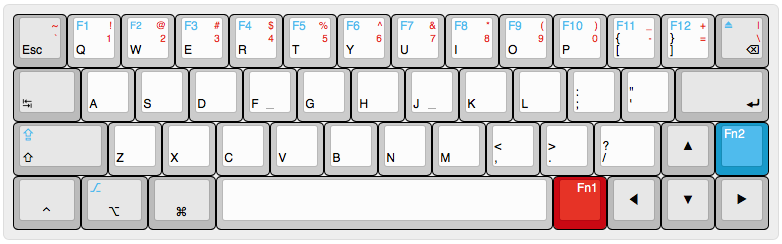
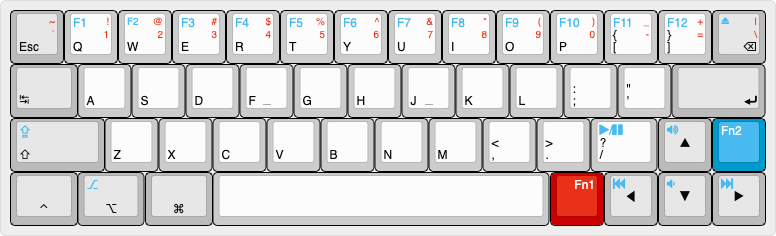
Update README and layout assets

Changed region(s): [[0.0, 0.0, 1.0, 1.0], [0.5876, 0.3856, 0.6186, 0.4449], [0.4639, 0.1483, 0.4948, 0.178]]

diff --git a/README.md b/README.md
@@ -6,7 +6,7 @@
 
 Source: [layout.kbd.json](layout/default.kbd.json)
 
-Online: http://www.keyboard-layout-editor.com/#/gists/c508c16d021675e48b9c4a68a4d9b2f8
+Online: [keyboard-layout-editor.com](http://www.keyboard-layout-editor.com/##@_name=FortyEight%20-%20Circuit%20and%20PCB%2F:%20https%2F:%2F%2F%2F%2Feasyeda.com%2F%2Fqiushihe%2F%2FFortyEight-06QK2We7p&author=Billy%20He%20%3Cqiushihe%2F@me.com%3E&switchMount=cherry&switchBrand=cherry&switchType=MX1A-G1xx&plate:false&pcb:true%3B&@_c=%23bbbbbb&t=%230099cc%0A%23000000%0A%23cc0000%0A%0A%0A%0A%0A%23cc0000&sm=cherry&sb=cherry&st=MX1A-G1xx&fa@:0&:0&:2&:0&:0&:0&:0&:2%3B%3B&=%0AEsc%0A~%0A%0A%0A%0A%0A%60&_c=%23cccccc%3B&=F1%0AQ%0A!%0A%0A%0A%0A%0A1&_fa@:2&:0&:2&:0&:0&:0&:0&:2%3B%3B&=F2%0AW%0A%2F@%0A%0A%0A%0A%0A2&_fa@:0&:0&:2&:0&:0&:0&:0&:2%3B%3B&=F3%0AE%0A%23%0A%0A%0A%0A%0A3&=F4%0AR%0A$%0A%0A%0A%0A%0A4&=F5%0AT%0A%25%0A%0A%0A%0A%0A5&=F6%0AY%0A%5E%0A%0A%0A%0A%0A6&=F7%0AU%0A%2F&%0A%0A%0A%0A%0A7&=F8%0AI%0A*%0A%0A%0A%0A%0A8&=F9%0AO%0A(%0A%0A%0A%0A%0A9&=F10%0AP%0A)%0A%0A%0A%0A%0A0&_t=%230099cc%0A%23000000%0A%23cc0000%0A%0A%0A%0A%23000000%0A%23cc0000%3B&=F11%0A%5B%0A%2F_%0A%0A%0A%0A%7B%0A-&=F12%0A%5D%0A+%0A%0A%0A%0A%7D%0A%2F=&_c=%23bbbbbb&t=%230099cc%0A%0A%23cc0000%0A%23000000%0A%0A%0A%0A%23cc0000&fa@:2&:0&:2&:0&:0&:0&:0&:2%3B%3B&=%E2%8F%8F%0A%0A%7C%0A%E2%8C%AB%0A%0A%0A%0A%5C%3B&@_t=%230099cc%0A%23000000&w:1.25%3B&=%0A%3Ci%20class%2F='kb%20kb-Line-Start-End'%3E%3C%2F%2Fi%3E&_c=%23cccccc%3B&=%0AA&=%0AS&=%0AD&_n:true%3B&=%0AF&=%0AG&=%0AH&_n:true%3B&=%0AJ&=%0AK&=%0AL&_t=%230099cc%0A%23000000%0A%0A%0A%0A%0A%23000000%3B&=%0A%2F%3B%0A%0A%0A%0A%0A%2F:&=%0A'%0A%0A%0A%0A%0A%22&_c=%23bbbbbb&t=%230099cc%0A%0A%0A%23000000&w:1.75%3B&=%0A%0A%0A%E2%8F%8E%3B&@_t=%230099cc%0A%23000000&f:3&w:1.75%3B&=%E2%87%AA%0A%E2%87%A7&_c=%23cccccc%3B&=%0AZ&=%0AX&=%0AC&=%0AV&=%0AB&=%0AN&=%0AM&_t=%230099cc%0A%23000000%0A%0A%0A%0A%0A%23000000%3B&=%0A,%0A%0A%0A%0A%0A%3C&=%0A.%0A%0A%0A%0A%0A%3E&_f:3&w:1.25%3B&=%3Ci%20class%2F='fa%20fa-play'%3E%3C%2F%2Fi%3E%2F%2F%3Ci%20class%2F='fa%20fa-pause'%3E%3C%2F%2Fi%3E%0A%2F%2F%0A%0A%0A%0A%0A%3F&_c=%23bbbbbb&t=%230099cc&f:3%3B&=%3Ci%20class%2F='fa%20fa-volume-up'%3E%3C%2F%2Fi%3E%0A%0A%0A%0A%0A%0A%0A%0A%0A%E2%96%B2&_c=%230099cc&t=%23ffffff&f:3%3B&=Fn2%3B&@_c=%23bbbbbb&t=%23000000&a:5&w:1.25%3B&=%0A%E2%8C%83&_t=%230099cc%0A%0A%0A%0A%0A%0A%0A%0A%0A%0A%23000000&a:4&f:3&w:1.25%3B&=%E2%8E%87%0A%0A%0A%0A%0A%0A%0A%0A%0A%0A%E2%8C%A5&_t=%23000000&a:5&w:1.25%3B&=%0A%E2%8C%98&_c=%23cccccc&a:7&w:6.25%3B&=&_c=%23cc0000&t=%23ffffff&a:4&f:3%3B&=%0A%0AFn1&_c=%23bbbbbb&t=%230099cc&f:3%3B&=%3Ci%20class%2F='fa%20fa-fast-backward'%3E%3C%2F%2Fi%3E%0A%0A%0A%0A%0A%0A%0A%0A%0A%E2%97%80%EF%B8%8E&_f:3%3B&=%3Ci%20class%2F='fa%20fa-volume-down'%3E%3C%2F%2Fi%3E%0A%0A%0A%0A%0A%0A%0A%0A%0A%E2%96%BC&_f:3%3B&=%3Ci%20class%2F='fa%20fa-fast-forward'%3E%3C%2F%2Fi%3E%0A%0A%0A%0A%0A%0A%0A%0A%0A%E2%96%B6%EF%B8%8E)
 
 **Default layout:**
 
